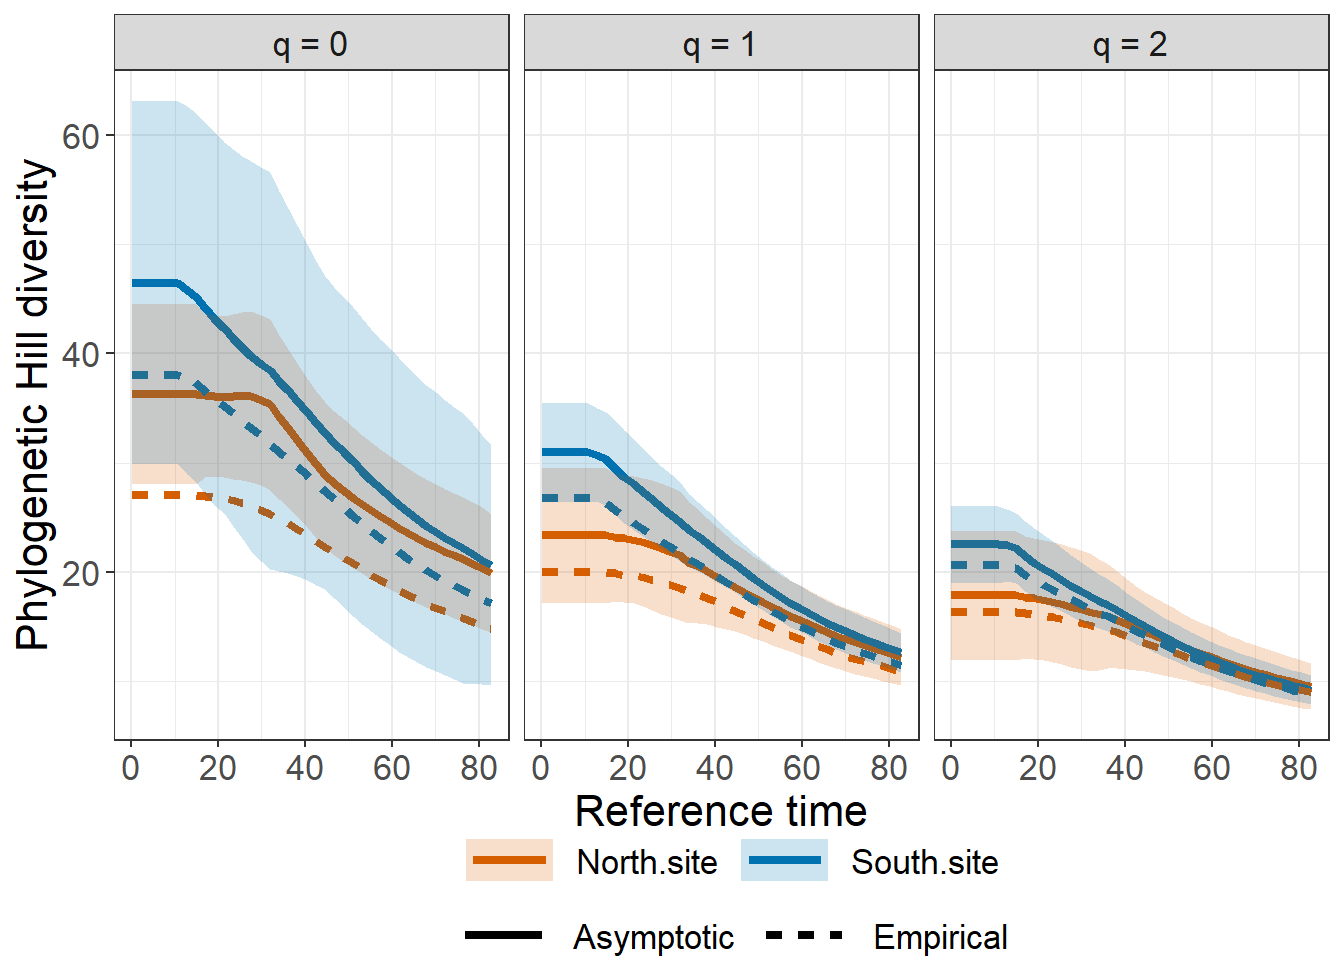
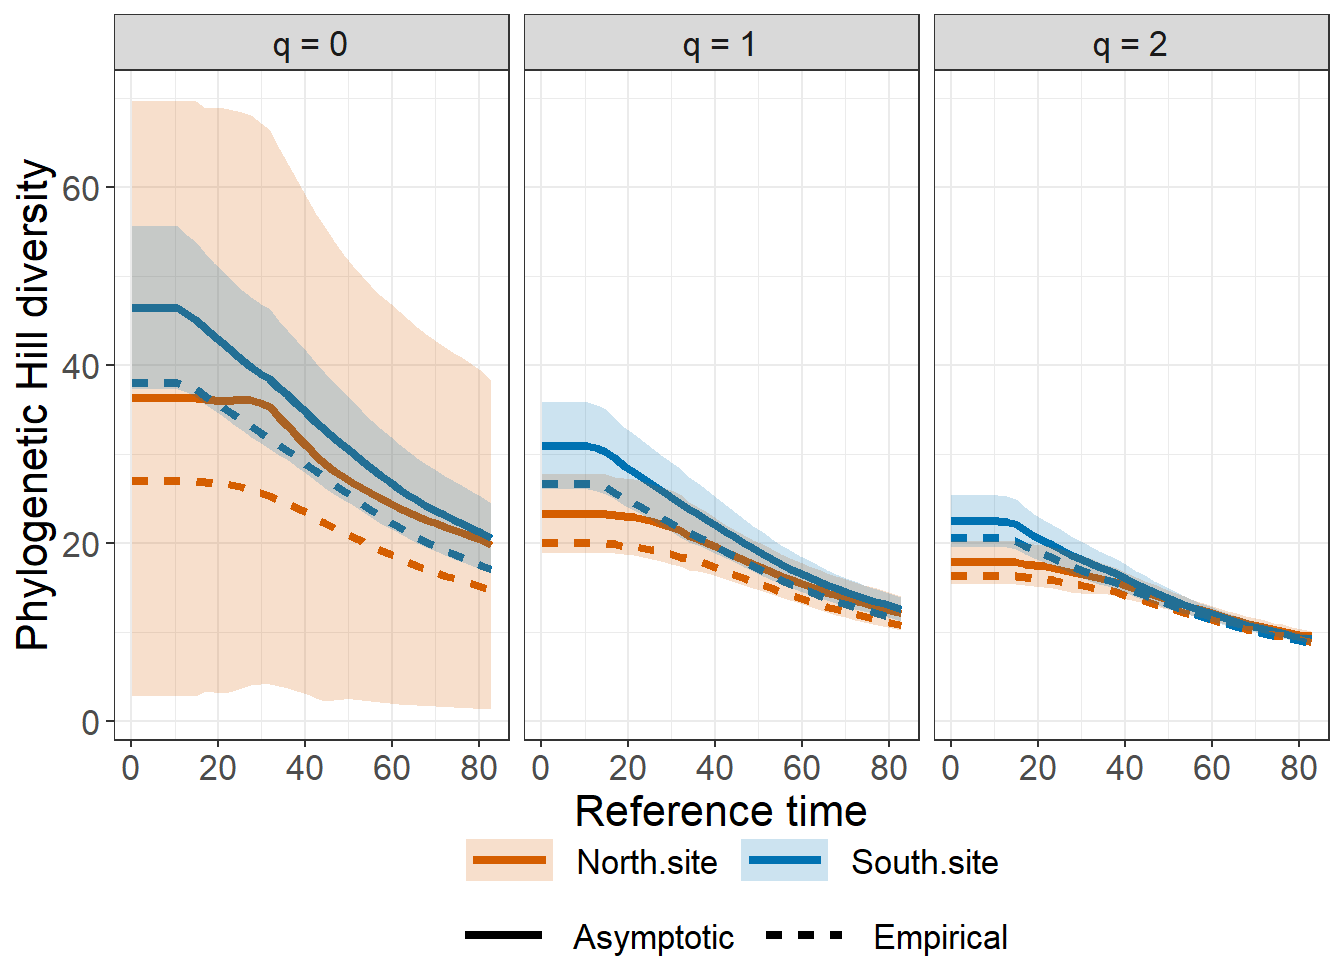
Update README.

Changed region(s): [[0.0312, 0.0938, 0.375, 0.75], [0.4062, 0.4375, 1.0, 0.75], [0.0625, 0.75, 0.0938, 0.7812]]

diff --git a/README.md b/README.md
@@ -21,7 +21,7 @@ diversity) is an R package, available in
 of species diversity (Hill numbers) for three dimensions. Here we
 provide a quick introduction demonstrating how to run iNEXT.3D, and
 showing three types of sampling curves. See Chao et al. (2021) for
-methodologies. An online version of iNEXT.3D Online [iNEXT_3D
+methodologies. An online version of [iNEXT.3D
 Online](https://chao.shinyapps.io/iNEXT_3D/) is also available for users
 without an R background. Detailed information about all functions in
 iNEXT.3D is provided in the iNEXT.3D Manual in
@@ -368,16 +368,16 @@ $size_based (LCL and UCL are obtained for fixed size.)
 # A tibble: 45 x 10
    Assemblage     m Method        Order.q    qD qD.LCL qD.UCL    SC SC.LCL SC.UCL
    <chr>      <dbl> <chr>           <dbl> <dbl>  <dbl>  <dbl> <dbl>  <dbl>  <dbl>
- 1 EM             1 Rarefaction         0  1      1.00    1   0.136  0.116  0.156
- 2 EM           196 Rarefaction         0 15.2   14.1    16.4 0.987  0.978  0.996
- 3 EM           373 Observed            0 17     14.8    19.2 0.992  0.983  1    
- 4 EM           550 Extrapolation       0 18.2   15.1    21.4 0.994  0.986  1    
- 5 EM           746 Extrapolation       0 19.2   14.9    23.5 0.996  0.989  1    
- 6 EM             1 Rarefaction         1  1      1       1   0.136  0.116  0.156
- 7 EM           196 Rarefaction         1  9.07   7.90   10.2 0.987  0.978  0.996
- 8 EM           373 Observed            1  9.27   8.09   10.5 0.992  0.983  1    
- 9 EM           550 Extrapolation       1  9.37   8.18   10.6 0.994  0.986  1    
-10 EM           746 Extrapolation       1  9.43   8.24   10.6 0.996  0.989  1    
+ 1 EM             1 Rarefaction         0  1      1.00   1    0.136  0.126  0.146
+ 2 EM           196 Rarefaction         0 15.2   13.9   16.6  0.987  0.982  0.992
+ 3 EM           373 Observed            0 17     15.7   18.3  0.992  0.986  0.998
+ 4 EM           550 Extrapolation       0 18.2   16.7   19.8  0.994  0.988  1    
+ 5 EM           746 Extrapolation       0 19.2   16.8   21.6  0.996  0.991  1    
+ 6 EM             1 Rarefaction         1  1      1      1    0.136  0.126  0.146
+ 7 EM           196 Rarefaction         1  9.07   8.58   9.55 0.987  0.982  0.992
+ 8 EM           373 Observed            1  9.27   8.77   9.77 0.992  0.986  0.998
+ 9 EM           550 Extrapolation       1  9.37   8.86   9.87 0.994  0.988  1    
+10 EM           746 Extrapolation       1  9.43   8.93   9.94 0.996  0.991  1    
 # ... with 35 more rows
 # i Use `print(n = ...)` to see more rows
 
@@ -388,16 +388,16 @@ $coverage_based (LCL and UCL are obtained for fixed coverage; interval length is
 # A tibble: 45 x 8
    Assemblage    SC     m Method        Order.q    qD qD.LCL qD.UCL
    <chr>      <dbl> <dbl> <chr>           <dbl> <dbl>  <dbl>  <dbl>
- 1 EM         0.136    1  Rarefaction         0  1     0.921   1.08
- 2 EM         0.987  196. Rarefaction         0 15.2  10.8    19.6 
- 3 EM         0.992  373  Observed            0 17    10.1    23.9 
- 4 EM         0.994  550. Extrapolation       0 18.2  10.1    26.3 
- 5 EM         0.996  746. Extrapolation       0 19.2  10.1    28.3 
- 6 EM         0.136    1  Rarefaction         1  1     0.925   1.08
- 7 EM         0.987  196. Rarefaction         1  9.07  8.01   10.1 
- 8 EM         0.992  373  Observed            1  9.27  8.18   10.4 
- 9 EM         0.994  550. Extrapolation       1  9.37  8.25   10.5 
-10 EM         0.996  746. Extrapolation       1  9.43  8.30   10.6 
+ 1 EM         0.136    1  Rarefaction         0  1     0.986   1.01
+ 2 EM         0.987  196. Rarefaction         0 15.2  13.4    17.0 
+ 3 EM         0.992  373  Observed            0 17    14.3    19.7 
+ 4 EM         0.994  550. Extrapolation       0 18.2  14.6    21.8 
+ 5 EM         0.996  746. Extrapolation       0 19.2  15.0    23.3 
+ 6 EM         0.136    1  Rarefaction         1  1     0.987   1.01
+ 7 EM         0.987  196. Rarefaction         1  9.07  8.57    9.56
+ 8 EM         0.992  373  Observed            1  9.27  8.79    9.76
+ 9 EM         0.994  550. Extrapolation       1  9.37  8.87    9.87
+10 EM         0.996  746. Extrapolation       1  9.43  8.92    9.95
 # ... with 35 more rows
 # i Use `print(n = ...)` to see more rows
 
@@ -405,15 +405,15 @@ NOTE: The above output only shows five estimates for each assemblage; call iNEXT
 
 AsyEst: asymptotic diversity estimates along with related statistics.
   Assemblage         Diversity  Observed Estimator      s.e.       LCL       UCL
-1         EM  Species richness 17.000000 21.487936 6.8438443 17.000000 34.901624
-2         EM Shannon diversity  9.272102  9.541765 0.3229302  8.908834 10.174697
-3         EM Simpson diversity  7.218106  7.340810 0.1667320  7.014022  7.667599
-4         MO  Species richness 39.000000 40.998658 5.7377525 39.000000 52.244446
-5         MO Shannon diversity 19.712107 19.987465 0.3207481 19.358811 20.616120
-6         MO Simpson diversity 13.979950 14.102888 0.3429921 13.430636 14.775141
-7         TR  Species richness 42.000000 45.996223 6.2099948 42.000000 58.167589
-8         TR Shannon diversity 23.941938 24.481173 0.6085377 23.288461 25.673885
-9         TR Simpson diversity 18.605455 18.920295 0.6984230 17.551411 20.289178
+1         EM  Species richness 17.000000 21.487936 2.8239145 17.000000 27.022706
+2         EM Shannon diversity  9.272102  9.541765 0.4004222  8.756952 10.326578
+3         EM Simpson diversity  7.218106  7.340810 0.3675428  6.620440  8.061181
+4         MO  Species richness 39.000000 40.998658 1.5730404 39.000000 44.081760
+5         MO Shannon diversity 19.712107 19.987465 0.5114309 18.985079 20.989852
+6         MO Simpson diversity 13.979950 14.102888 0.4116026 13.296162 14.909615
+7         TR  Species richness 42.000000 45.996223 5.2548292 42.000000 56.295499
+8         TR Shannon diversity 23.941938 24.481173 0.6938491 23.121254 25.841093
+9         TR Simpson diversity 18.605455 18.920295 0.5377164 17.866390 19.974199
 ```
 
 The second data frame of list $iNextEst (as shown below for
@@ -598,15 +598,15 @@ indicated in the method of the output.
 ``` r
 estimate3D(dunes$data, diversity = 'TD', q = c(0,1,2), datatype = "abundance", base = "coverage",level = 0.93)
   Assemblage   SC         m      Method Order.q        qD      s.e.    qD.LCL    qD.UCL
-1         EM 0.93  47.88966 Rarefaction       0 11.194508 0.5576521 10.101530 12.287486
-2         EM 0.93  47.88966 Rarefaction       1  8.004329 0.3630917  7.292682  8.715976
-3         EM 0.93  47.88966 Rarefaction       2  6.482469 0.3017298  5.891089  7.073849
-4         MO 0.93 107.56810 Rarefaction       0 24.830302 0.6786476 23.500177 26.160427
-5         MO 0.93 107.56810 Rarefaction       1 16.735683 0.4398505 15.873591 17.597774
-6         MO 0.93 107.56810 Rarefaction       2 12.571520 0.4051718 11.777398 13.365643
-7         TR 0.93 114.37603 Rarefaction       0 27.935556 0.8515544 26.266540 29.604572
-8         TR 0.93 114.37603 Rarefaction       1 20.360646 0.5490569 19.284514 21.436778
-9         TR 0.93 114.37603 Rarefaction       2 16.357398 0.4897403 15.397525 17.317271
+1         EM 0.93  47.88966 Rarefaction       0 11.194508 0.5813418 10.055099 12.333917
+2         EM 0.93  47.88966 Rarefaction       1  8.004329 0.3240549  7.369193  8.639465
+3         EM 0.93  47.88966 Rarefaction       2  6.482469 0.2436759  6.004873  6.960065
+4         MO 0.93 107.56810 Rarefaction       0 24.830302 0.7392533 23.381392 26.279212
+5         MO 0.93 107.56810 Rarefaction       1 16.735683 0.4451790 15.863148 17.608217
+6         MO 0.93 107.56810 Rarefaction       2 12.571520 0.3818177 11.823172 13.319869
+7         TR 0.93 114.37603 Rarefaction       0 27.935556 0.8542110 26.261333 29.609779
+8         TR 0.93 114.37603 Rarefaction       1 20.360646 0.5630682 19.257053 21.464239
+9         TR 0.93 114.37603 Rarefaction       2 16.357398 0.4801637 15.416294 17.298502
 ```
 
 ### EMPIRICAL AND ASYMPTOTIC DIVERSITY FUNCTION: AO3D
@@ -630,73 +630,73 @@ along with its confidence interval, for a specified q level from 0 to 2.
 out1 <- AO3D(dunes$data, diversity = 'TD', datatype = "abundance", method = c("Asymptotic", "Observed"),nboot = 5,conf = 0.95)
 
 out1
-   Order.q        qD      s.e.    qD.LCL    qD.UCL Assemblage     Method
-1      0.0 21.487936 4.9090774 11.866321 31.109551         EM Asymptotic
-2      0.2 16.936433 2.5464122 11.945557 21.927309         EM Asymptotic
-3      0.4 13.885407 1.2403970 11.454273 16.316540         EM Asymptotic
-4      0.6 11.862781 0.6003011 10.686212 13.039349         EM Asymptotic
-5      0.8 10.496859 0.3426670  9.825244 11.168474         EM Asymptotic
-6      1.0  9.541765 0.2901776  8.973027 10.110503         EM Asymptotic
-7      1.2  8.847719 0.3041198  8.251655  9.443783         EM Asymptotic
-8      1.4  8.325449 0.3244605  7.689518  8.961380         EM Asymptotic
-9      1.6  7.920890 0.3400539  7.254397  8.587383         EM Asymptotic
-10     1.8  7.600095 0.3511550  6.911844  8.288346         EM Asymptotic
-11     2.0  7.340810 0.3594169  6.636366  8.045255         EM Asymptotic
-12     0.0 40.998658 6.4829942 28.292223 53.705093         MO Asymptotic
-13     0.2 34.209437 2.9918042 28.345608 40.073265         MO Asymptotic
-14     0.4 29.060182 1.3437455 26.426489 31.693875         MO Asymptotic
-15     0.6 25.175831 0.6083235 23.983539 26.368124         MO Asymptotic
-16     0.8 22.235885 0.2941871 21.659289 22.812481         MO Asymptotic
-17     1.0 19.987465 0.2010122 19.593489 20.381442         MO Asymptotic
-18     1.2 18.241913 0.2221500 17.806507 18.677319         MO Asymptotic
-19     1.4 16.863382 0.2711936 16.331852 17.394911         MO Asymptotic
-20     1.6 15.755819 0.3191527 15.130291 16.381346         MO Asymptotic
-21     1.8 14.851614 0.3601141 14.145804 15.557425         MO Asymptotic
-22     2.0 14.102888 0.3931734 13.332283 14.873494         MO Asymptotic
-23     0.0 45.996223 7.4731581 31.349102 60.643344         TR Asymptotic
-24     0.2 38.731480 3.9445849 31.000236 46.462724         TR Asymptotic
-25     0.4 33.399637 2.0681452 29.346147 37.453127         TR Asymptotic
-26     0.6 29.505773 1.1940859 27.165408 31.846138         TR Asymptotic
-27     0.8 26.635682 0.8602168 24.949688 28.321676         TR Asymptotic
-28     1.0 24.481173 0.7602774 22.991057 25.971290         TR Asymptotic
-29     1.2 22.827199 0.7357087 21.385236 24.269161         TR Asymptotic
-30     1.4 21.527891 0.7302930 20.096543 22.959239         TR Asymptotic
-31     1.6 20.484834 0.7276974 19.058573 21.911094         TR Asymptotic
-32     1.8 19.631065 0.7233268 18.213370 21.048759         TR Asymptotic
-33     2.0 18.920295 0.7160548 17.516853 20.323736         TR Asymptotic
-34     0.0 17.000000 0.8366600 15.360176 18.639824         EM  Empirical
-35     0.2 14.471457 0.5819063 13.330942 15.611972         EM  Empirical
-36     0.4 12.567736 0.4126783 11.758901 13.376570         EM  Empirical
-37     0.6 11.145510 0.3151381 10.527850 11.763169         EM  Empirical
-38     0.8 10.079552 0.2737538  9.543005 10.616100         EM  Empirical
-39     1.0  9.272102 0.2649524  8.752805  9.791399         EM  Empirical
-40     1.2  8.651511 0.2683346  8.125585  9.177437         EM  Empirical
-41     1.4  8.166818 0.2737369  7.630304  8.703333         EM  Empirical
-42     1.6  7.782094 0.2779337  7.237354  8.326834         EM  Empirical
-43     1.8  7.471913 0.2805493  6.922047  8.021780         EM  Empirical
-44     2.0  7.218106 0.2820395  6.665319  7.770894         EM  Empirical
-45     0.0 39.000000 1.0954451 36.852967 41.147033         MO  Empirical
-46     0.2 32.970780 0.6144240 31.766531 34.175029         MO  Empirical
-47     0.4 28.269000 0.3299614 27.622287 28.915712         MO  Empirical
-48     0.6 24.647500 0.2012987 24.252961 25.042038         MO  Empirical
-49     0.8 21.864493 0.1856694 21.500587 22.228398         MO  Empirical
-50     1.0 19.712107 0.2099955 19.300523 20.123691         MO  Empirical
-51     1.2 18.026804 0.2358648 17.564517 18.489090         MO  Empirical
-52     1.4 16.686924 0.2563250 16.184537 17.189312         MO  Empirical
-53     1.6 15.604656 0.2717131 15.072108 16.137204         MO  Empirical
-54     1.8 14.717297 0.2831714 14.162292 15.272303         MO  Empirical
-55     2.0 13.979950 0.2916043 13.408416 14.551484         MO  Empirical
-56     0.0 42.000000 1.6733201 38.720353 45.279647         TR  Empirical
-57     0.2 36.253363 1.3618992 33.584090 38.922637         TR  Empirical
-58     0.4 31.844736 1.1064754 29.676084 34.013388         TR  Empirical
-59     0.6 28.487492 0.8848701 26.753178 30.221805         TR  Empirical
-60     0.8 25.922807 0.6985845 24.553607 27.292008         TR  Empirical
-61     1.0 23.941938 0.5504717 22.863033 25.020843         TR  Empirical
-62     1.2 22.387845 0.4400210 21.525419 23.250270         TR  Empirical
-63     1.4 21.146894 0.3640477 20.433374 21.860415         TR  Empirical
-64     1.6 20.138290 0.3174819 19.516037 20.760543         TR  Empirical
-65     1.8 19.304760 0.2937249 18.729070 19.880450         TR  Empirical
-66     2.0 18.605455 0.2856194 18.045651 19.165259         TR  Empirical
+   Order.q        qD       s.e.    qD.LCL    qD.UCL Assemblage     Method
+1      0.0 21.487936 3.33897048 14.943674 28.032198         EM Asymptotic
+2      0.2 16.936433 1.66957921 13.664118 20.208748         EM Asymptotic
+3      0.4 13.885407 0.83431177 12.250186 15.520628         EM Asymptotic
+4      0.6 11.862781 0.48240147 10.917291 12.808270         EM Asymptotic
+5      0.8 10.496859 0.33945161  9.831546 11.162172         EM Asymptotic
+6      1.0  9.541765 0.27248922  9.007696 10.075834         EM Asymptotic
+7      1.2  8.847719 0.24158570  8.374220  9.321218         EM Asymptotic
+8      1.4  8.325449 0.23298833  7.868800  8.782097         EM Asymptotic
+9      1.6  7.920890 0.23690605  7.456563  8.385217         EM Asymptotic
+10     1.8  7.600095 0.24636358  7.117231  8.082958         EM Asymptotic
+11     2.0  7.340810 0.25752392  6.836073  7.845548         EM Asymptotic
+12     0.0 40.998658 2.51217190 36.074891 45.922424         MO Asymptotic
+13     0.2 34.209437 1.50364883 31.262339 37.156534         MO Asymptotic
+14     0.4 29.060182 0.97294407 27.153247 30.967117         MO Asymptotic
+15     0.6 25.175831 0.71045202 23.783371 26.568292         MO Asymptotic
+16     0.8 22.235885 0.58348621 21.092273 23.379497         MO Asymptotic
+17     1.0 19.987465 0.51997945 18.968324 21.006606         MO Asymptotic
+18     1.2 18.241913 0.48622748 17.288925 19.194902         MO Asymptotic
+19     1.4 16.863382 0.46763815 15.946828 17.779935         MO Asymptotic
+20     1.6 15.755819 0.45756882 14.859000 16.652637         MO Asymptotic
+21     1.8 14.851614 0.45246618 13.964797 15.738432         MO Asymptotic
+22     2.0 14.102888 0.45009755 13.220713 14.985063         MO Asymptotic
+23     0.0 45.996223 2.80314772 40.502154 51.490291         TR Asymptotic
+24     0.2 38.731480 1.75277735 35.296099 42.166860         TR Asymptotic
+25     0.4 33.399637 1.22446545 30.999729 35.799546         TR Asymptotic
+26     0.6 29.505773 1.01547781 27.515473 31.496073         TR Asymptotic
+27     0.8 26.635682 0.94440897 24.784674 28.486689         TR Asymptotic
+28     1.0 24.481173 0.91604111 22.685766 26.276581         TR Asymptotic
+29     1.2 22.827199 0.89739229 21.068342 24.586055         TR Asymptotic
+30     1.4 21.527891 0.87951339 19.804077 23.251706         TR Asymptotic
+31     1.6 20.484834 0.86064009 18.798010 22.171657         TR Asymptotic
+32     1.8 19.631065 0.84093830 17.982856 21.279273         TR Asymptotic
+33     2.0 18.920295 0.82098404 17.311195 20.529394         TR Asymptotic
+34     0.0 17.000000 1.58113883 13.901025 20.098975         EM  Empirical
+35     0.2 14.471457 0.92242777 12.663532 16.279382         EM  Empirical
+36     0.4 12.567736 0.51187792 11.564474 13.570998         EM  Empirical
+37     0.6 11.145510 0.27007323 10.616176 11.674843         EM  Empirical
+38     0.8 10.079552 0.13830272  9.808484 10.350621         EM  Empirical
+39     1.0  9.272102 0.08954356  9.096600  9.447604         EM  Empirical
+40     1.2  8.651511 0.09875157  8.457961  8.845060         EM  Empirical
+41     1.4  8.166818 0.12248290  7.926756  8.406880         EM  Empirical
+42     1.6  7.782094 0.14434578  7.499181  8.065007         EM  Empirical
+43     1.8  7.471913 0.16224416  7.153921  7.789906         EM  Empirical
+44     2.0  7.218106 0.17663469  6.871909  7.564304         EM  Empirical
+45     0.0 39.000000 0.89442719 37.246955 40.753045         MO  Empirical
+46     0.2 32.970780 0.40002508 32.186745 33.754815         MO  Empirical
+47     0.4 28.269000 0.34011838 27.602380 28.935619         MO  Empirical
+48     0.6 24.647500 0.41769123 23.828840 25.466159         MO  Empirical
+49     0.8 21.864493 0.46937887 20.944527 22.784459         MO  Empirical
+50     1.0 19.712107 0.49314572 18.745559 20.678655         MO  Empirical
+51     1.2 18.026804 0.50141140 17.044055 19.009552         MO  Empirical
+52     1.4 16.686924 0.50195277 15.703115 17.670734         MO  Empirical
+53     1.6 15.604656 0.49864123 14.627337 16.581975         MO  Empirical
+54     1.8 14.717297 0.49326036 13.750525 15.684070         MO  Empirical
+55     2.0 13.979950 0.48662312 13.026187 14.933714         MO  Empirical
+56     0.0 42.000000 1.81659021 38.439549 45.560451         TR  Empirical
+57     0.2 36.253363 1.18161752 33.937435 38.569291         TR  Empirical
+58     0.4 31.844736 0.81867611 30.240160 33.449311         TR  Empirical
+59     0.6 28.487492 0.67286162 27.168707 29.806276         TR  Empirical
+60     0.8 25.922807 0.64631137 24.656060 27.189554         TR  Empirical
+61     1.0 23.941938 0.65710150 22.654043 25.229833         TR  Empirical
+62     1.2 22.387845 0.67047855 21.073731 23.701958         TR  Empirical
+63     1.4 21.146894 0.67795021 19.818136 22.475652         TR  Empirical
+64     1.6 20.138290 0.67946358 18.806566 21.470014         TR  Empirical
+65     1.8 19.304760 0.67674030 17.978373 20.631147         TR  Empirical
+66     2.0 18.605455 0.67140964 17.289516 19.921394         TR  Empirical
 ```
 
 ### GRAPHIC DISPLAYS FUNCTION: ggAO3D()
